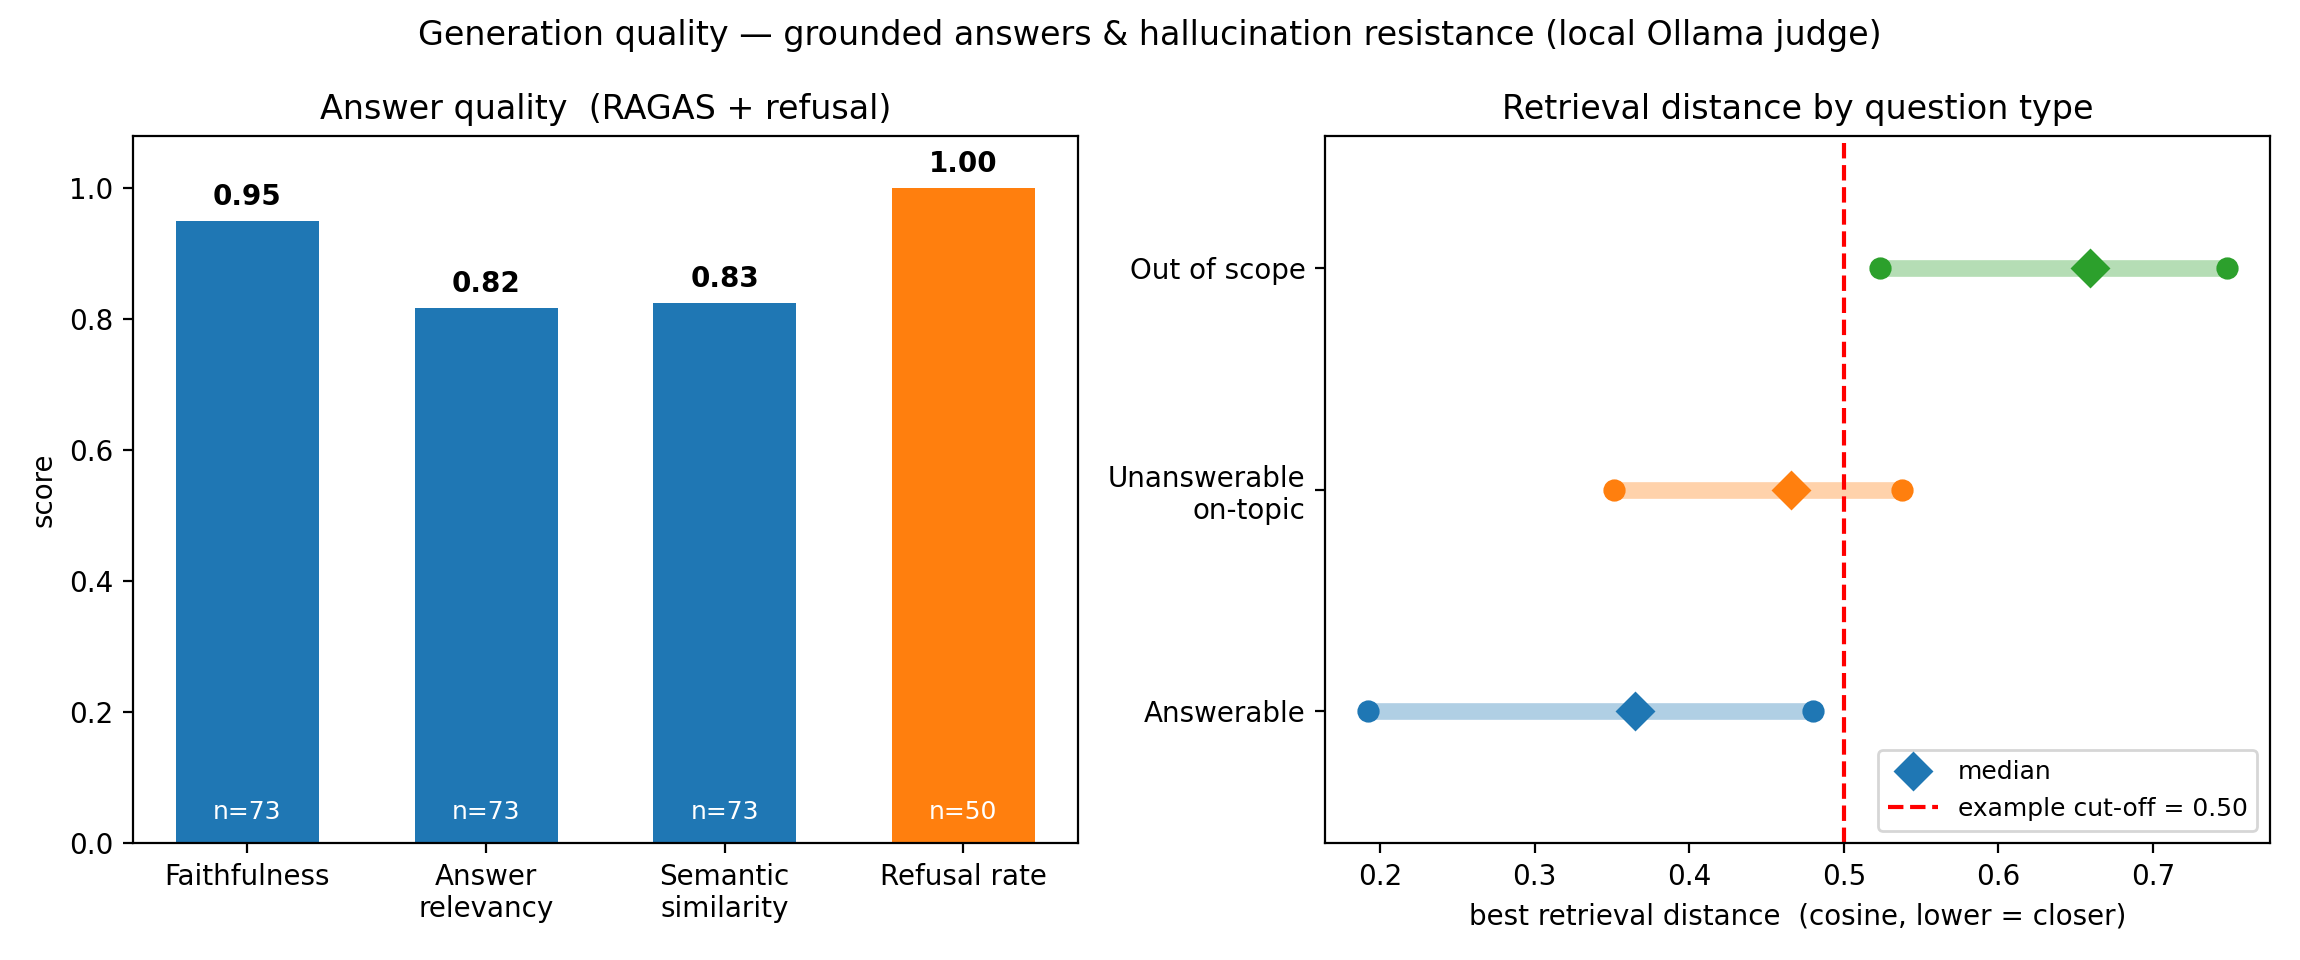
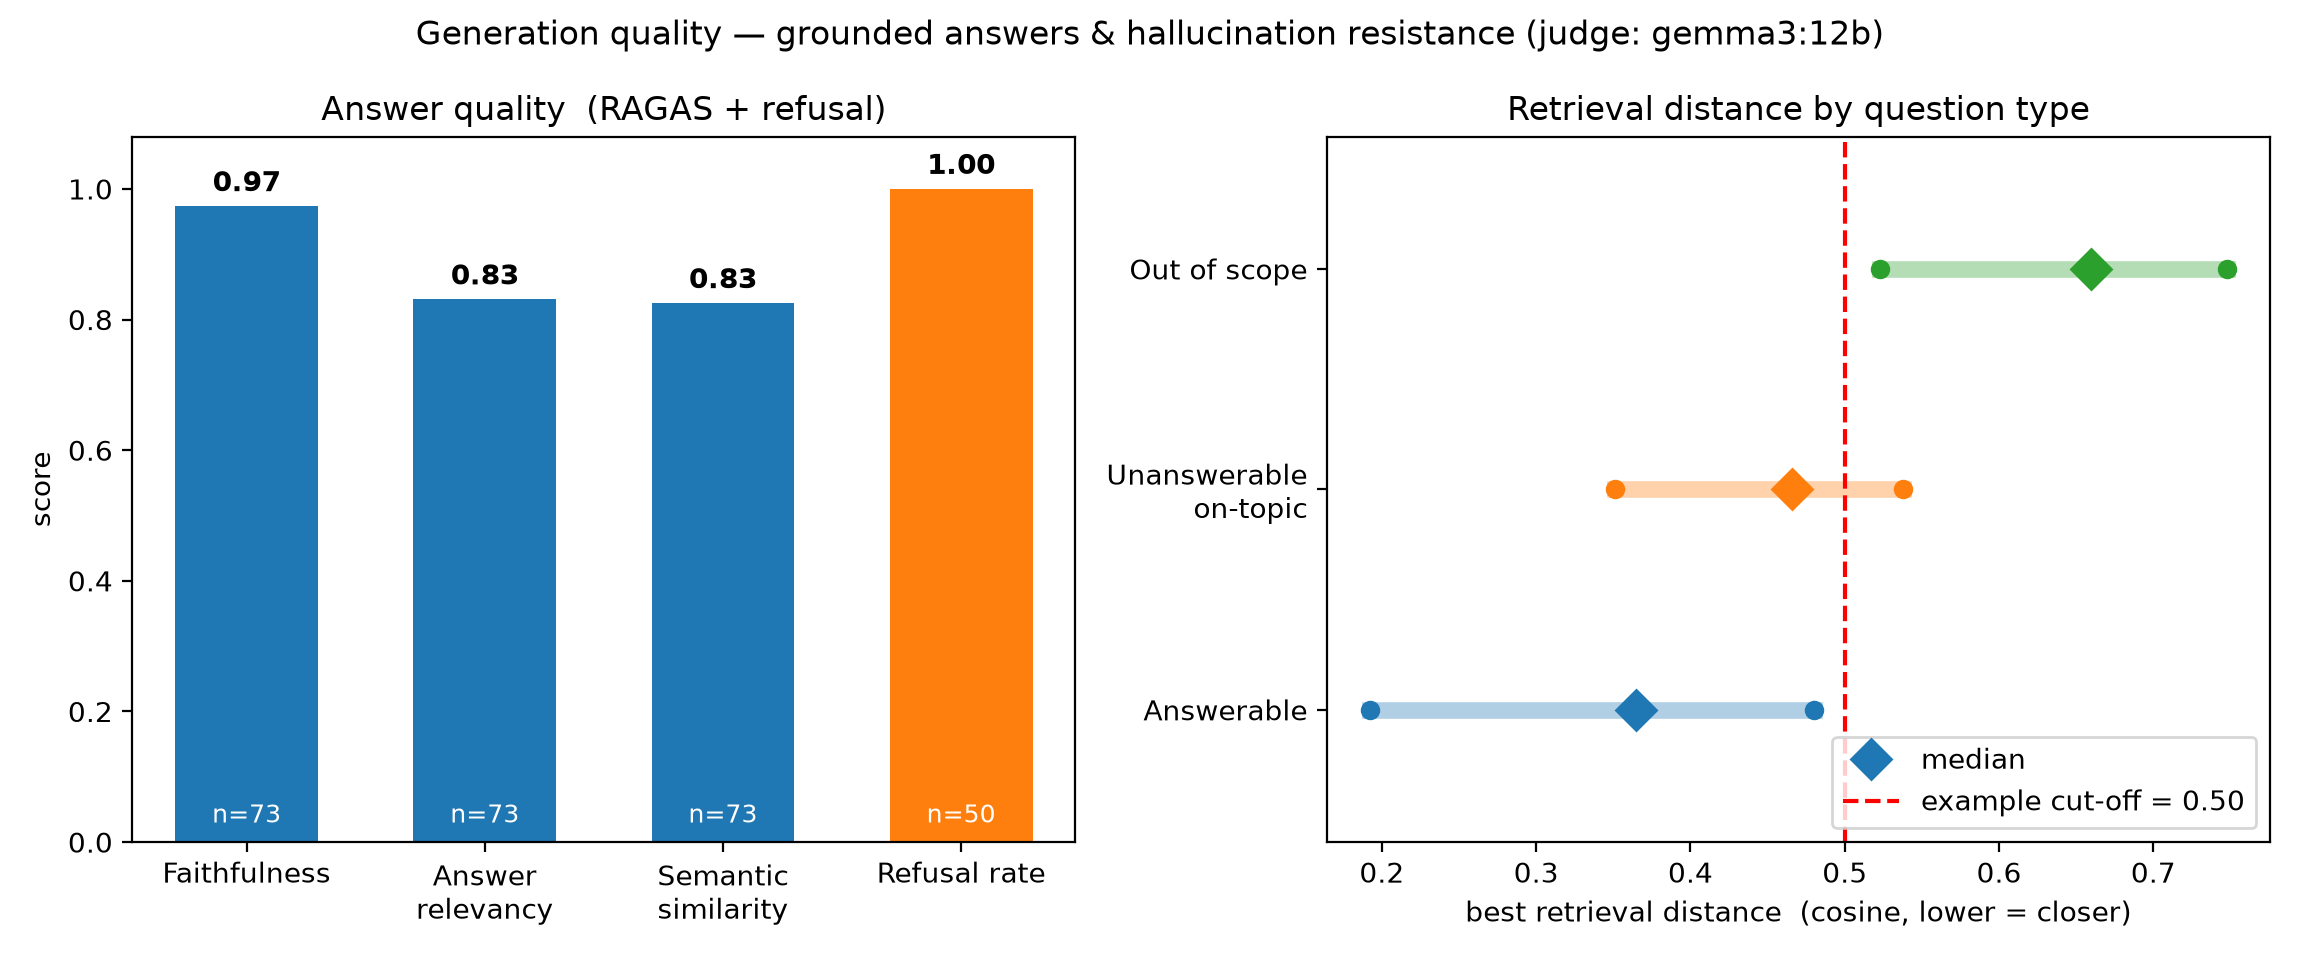
Switch the evaluation judge to gemma3:12b
qwen2.5:14b judged answers from the same model family as the qwen2.5:7b
generator, risking self-preference bias. Re-scored the same cached answers with
gemma3:12b: faithfulness 0.95 -> 0.97, answer relevancy 0.82 -> 0.83, refusal
100% under both, so the earlier scores were not inflated.

Reports now record which judge produced them.

diff --git a/src/evaluate_generation.py b/src/evaluate_generation.py
@@ -67,8 +67,9 @@ RAGAS_SAMPLE = EVAL_CFG["ragas_sample"]     # cap how many answerable answers RA
                                             # the run to ~1h without losing signal.
 
 # semantic_similarity needs reference_answer. factual_correctness is disabled in the
-# default config: its claim_decomposition step needs strict JSON the local 14B judge
-# can't produce reliably (RagasOutputParserException, even with a large num_predict).
+# default config: its claim_decomposition step needs strict JSON that qwen2.5:14b (the
+# previous judge) couldn't produce reliably (RagasOutputParserException, even with a large
+# num_predict). Not yet retried with gemma3:12b.
 # Re-enable it if you switch to a stronger judge (e.g. a hosted GPT-4-class).
 RAGAS_METRICS = EVAL_CFG["ragas_metrics"]
  
@@ -299,7 +300,7 @@ def _safe_mean(series):
  
 def save_report(refusal, stats, df):
     REPORT_DIR.mkdir(parents=True, exist_ok=True)
-    summary = {"refusal": refusal, "distance": stats}
+    summary = {"judge": JUDGE_MODEL, "refusal": refusal, "distance": stats}
     if df is not None:
         present = [name for name in RAGAS_METRICS if name in df.columns]
         summary["ragas"] = {name: _safe_mean(df[name]) for name in present}

diff --git a/src/config.py b/src/config.py
@@ -69,7 +69,7 @@ DEFAULTS = {
         },
         "generation": {
             "k": 5,
-            "judge_model": "qwen2.5:14b",
+            "judge_model": "gemma3:12b",
             "judge_num_predict": 4096,
             "use_cache": True,
             "sample": None,

diff --git a/README.md b/README.md
@@ -39,7 +39,7 @@ The same flow, mapped to the scripts:
 |-------|-----------|--------|
 | Embeddings / retrieval | `bge-m3` (BAAI) in a persisted **Chroma** collection, cosine distance | Strong multilingual embeddings for a PT/EN corpus |
 | Generation | **Qwen2.5-7B-Instruct** | Runs locally as `qwen2.5:7b` (Ollama) and hosted as `Qwen/Qwen2.5-7B-Instruct` (HF), the same model on both sides |
-| Eval judge | `qwen2.5:14b` (local Ollama) | Free, deterministic, same model family |
+| Eval judge | `gemma3:12b` (local Ollama) | Free and deterministic, and from a different model family than the generator, which avoids self-preference bias |
 
 ---
 
@@ -88,7 +88,7 @@ source .venv/bin/activate     # or prefix commands with `uv run`
 
 # 2. Pull the models used locally (generation + eval judge)
 ollama pull qwen2.5:7b     # generation (qwen2.5:3b works if RAM is tight)
-ollama pull qwen2.5:14b    # eval judge (only needed for generation eval)
+ollama pull gemma3:12b     # eval judge (only needed for generation eval)
 
 # 3. (Optional) configure the hosted backend for deployment
 echo "HUGGINGFACEHUB_API_TOKEN=hf_xxx" > .env
@@ -202,7 +202,7 @@ Similarity beats MMR at every k on this corpus, and retrieval is near-saturated 
 python src/evaluate_generation.py
 ```
 
-Runs three checks, all local (Ollama judge and bge-m3):
+Runs three checks, all local (`gemma3:12b` judge on Ollama, and bge-m3):
 
 1. **Refusal** on the 50 negatives: does the assistant correctly decline? A yes/no judge decides. `unanswerable_on_topic` is the real hallucination-resistance test, since on-topic context is retrieved but holds no answer.
 2. **Retrieval distance by type**: shows that a distance cutoff could screen `out_of_scope` but not `unanswerable_on_topic`, which is why check 1 exists.
@@ -210,19 +210,21 @@ Runs three checks, all local (Ollama judge and bge-m3):
 
 Answers are cached to `evals/reports/answers_cache.json`, keyed by a signature of the model and system prompt, and the cache auto-invalidates when either changes. A full run takes about 2.5 hours, mostly RAGAS on the local judge.
 
-Results:
+Results (judge `gemma3:12b`):
 
 | Metric | Score |
 |--------|-------|
-| Faithfulness | 0.94 |
-| Answer relevancy | 0.82 |
-| Semantic similarity | 0.82 |
+| Faithfulness | 0.97 |
+| Answer relevancy | 0.83 |
+| Semantic similarity | 0.83 |
 | Refusal, out_of_scope | **27 / 27 (100%)** |
 | Refusal, unanswerable_on_topic | **23 / 23 (100%)** |
 
-Outputs land in `evals/reports/` (`generation_eval.json`, `ragas_per_row.csv`, plots). `factual_correctness` is disabled by default, since its claim-decomposition step needs strict JSON the local 14B judge cannot emit reliably; it can be re-enabled in `eval.generation.ragas_metrics` with a stronger hosted judge.
+![Generation results: faithfulness 0.97, answer relevancy 0.83, semantic similarity 0.83, refusal rate 1.00, alongside best retrieval distance by question type](evals/reports/generation_eval.png)
 
-> **Known limitation: judge from the same model family.** The judge (`qwen2.5:14b`) is from the same family as the generator (`qwen2.5:7b`), which I chose so that evaluation stays free and runs locally. LLM judges tend to rate text from their own model family more favourably (self-preference bias). [Pombal et al. (2026)](https://arxiv.org/abs/2604.06996) show this holds even for binary yes/no verdicts on objective criteria, and that ensembling judges from different families reduces it without eliminating it. The judge-based scores above (refusal and RAGAS) may therefore be somewhat optimistic. Scoring the same cached answers with a judge from a different family is a planned improvement. Any other Ollama model can be used as the judge by changing `eval.generation.judge_model`. A hosted judge would need a small code change in `get_judge()`.
+Outputs land in `evals/reports/` (`generation_eval.json`, `ragas_per_row.csv`, plots). `factual_correctness` is disabled by default, since its claim-decomposition step needs strict JSON the earlier `qwen2.5:14b` judge could not emit reliably. It has not been retried with `gemma3:12b`, and can be re-enabled in `eval.generation.ragas_metrics`.
+
+**Why a judge from a different family.** LLM judges tend to rate text from their own model family more favourably (self-preference bias). [Pombal et al. (2026)](https://arxiv.org/abs/2604.06996) show this holds even for binary yes/no verdicts on objective criteria. The first judge, `qwen2.5:14b`, was from the same family as the generator (`qwen2.5:7b`), so I re-scored the same cached answers with Google's `gemma3:12b` and made it the default judge. It scored them no lower (faithfulness 0.95 → 0.97, answer relevancy 0.82 → 0.83, refusal 100% under both), so the earlier results were not inflated by self-preference. The two judges agreed on the averages but only moderately on individual answers, so a single answer's score depends on the judge. Any other Ollama model can be used as the judge by changing `eval.generation.judge_model`. A hosted judge would need a small code change in `get_judge()`.
 
 ---
 
@@ -239,6 +241,6 @@ The system prompt binds the model to a few rules: answer only from the provided 
 - **Don't trust a small model with what code can do deterministically.** The 7B model drifted into Portuguese on English questions and declined in English by default, so the reply language is now detected in code and forced in the prompt.
 - **A RAG system only knows what is in its chunks.** The assistant could not say who wrote the thesis until I added a synthetic front-matter section with the title, author and supervisors.
 - **Simpler can win.** Plain similarity search beat MMR at every k on this corpus.
-- **The judge is part of the measurement.** The local 14B judge could not reliably produce the strict JSON that `factual_correctness` needs, small RAGAS differences (under about 0.02) are judge noise, and a judge from the generator's own family is likely to score it optimistically.
+- **The judge is part of the measurement.** The first local judge could not reliably produce the strict JSON that `factual_correctness` needs, and small RAGAS differences (under about 0.02) are judge noise. Swapping in a judge from a different family tested for self-preference bias: the averages held, but scores for individual answers shifted, so a judge's verdict on a single answer shouldn't be over-read.
 - **Evaluate what you ship.** Running the same model locally for evaluation and hosted for deployment keeps the evaluation results meaningful for production.
 - **Make results reproducible and stale state impossible.** A lockfile, one config file, an answer cache keyed by model and prompt, and an index stamped with its embedding model mean old results or a mismatched index can't slip through unnoticed.
